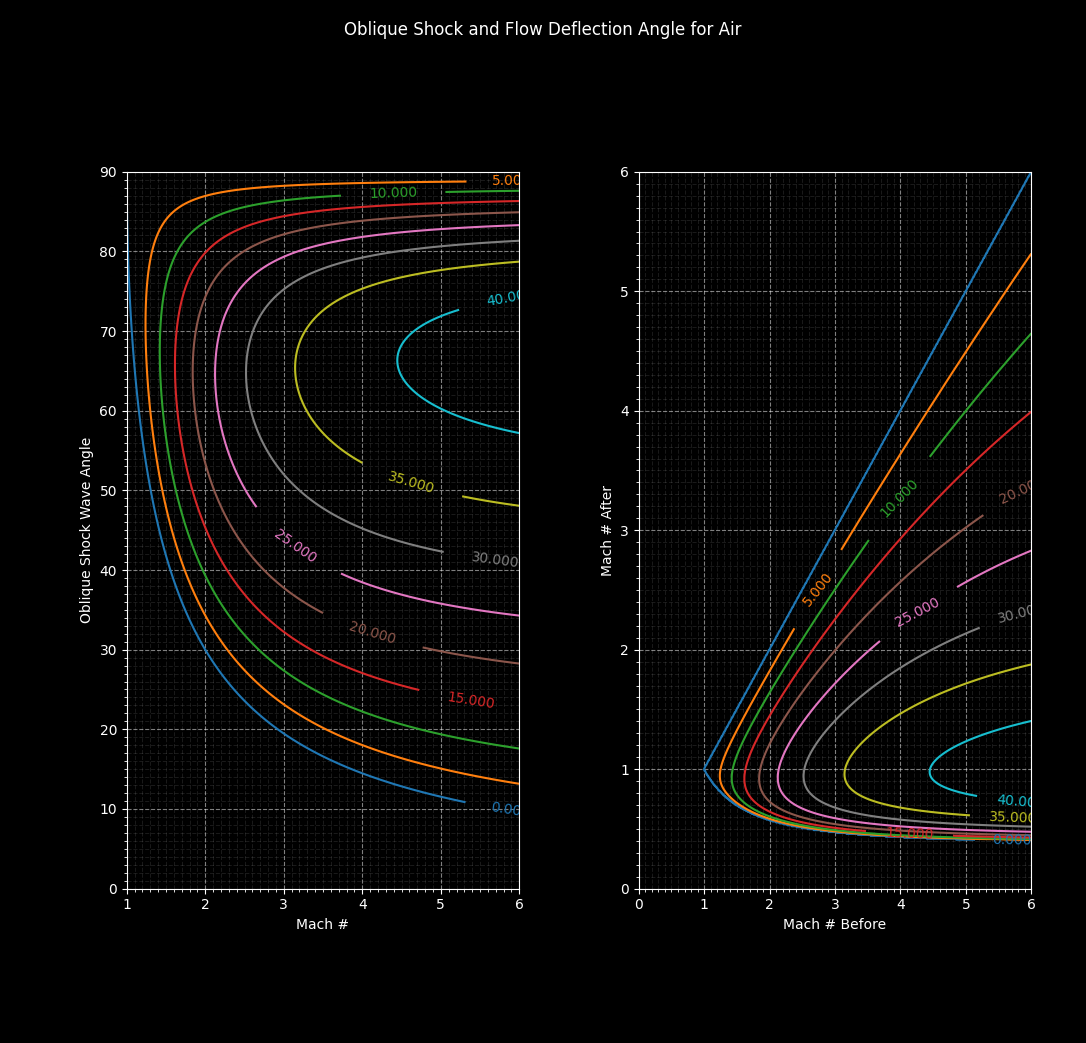
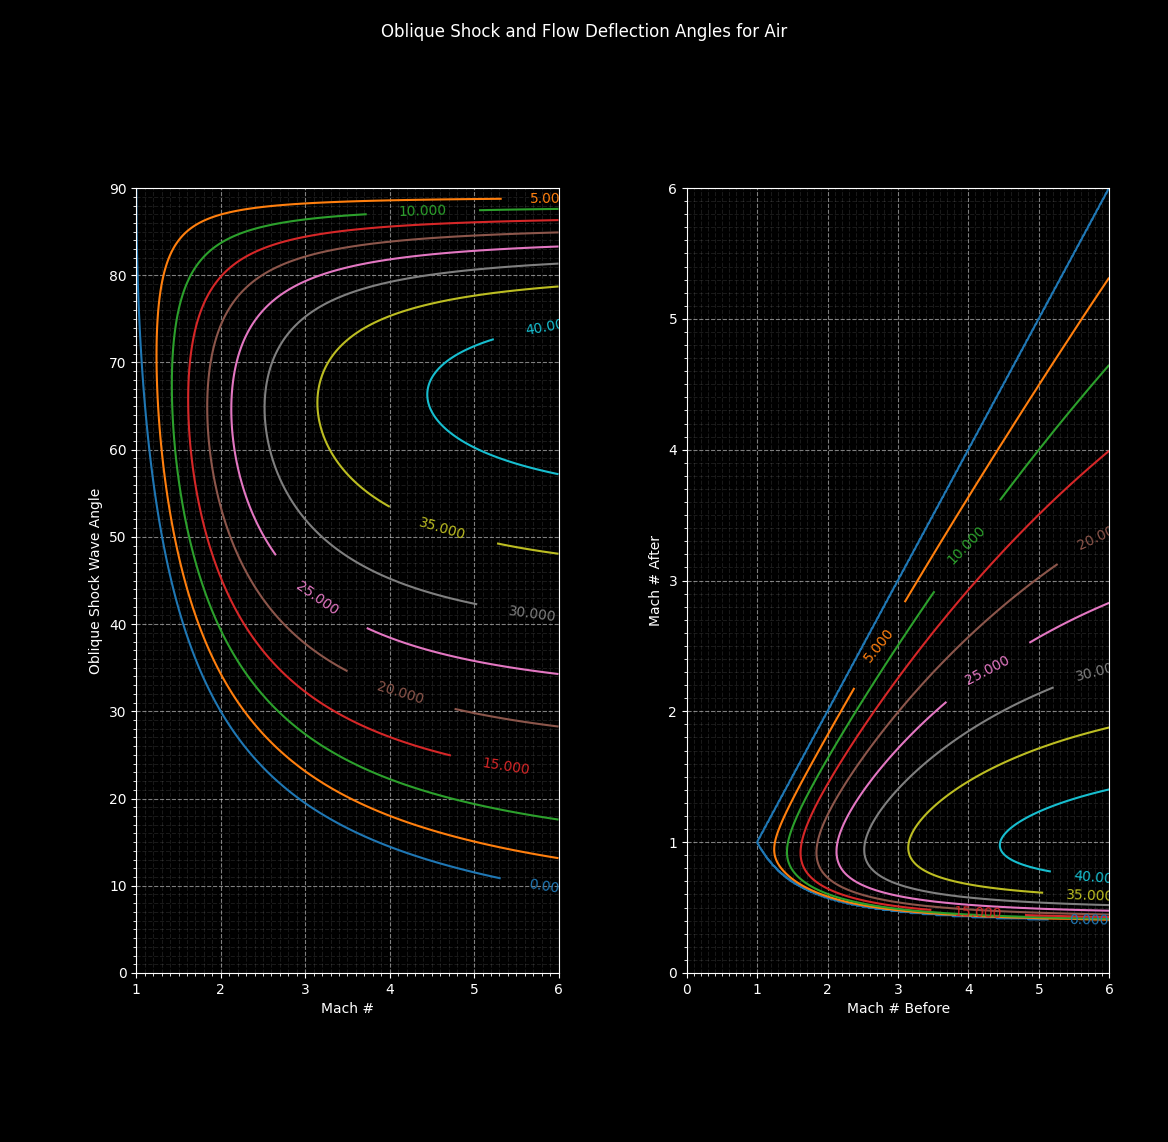
baby edits to readme. publishing version 0.2.4 now

diff --git a/gas_dynamics/shocks/shocks.py b/gas_dynamics/shocks/shocks.py
@@ -618,7 +618,7 @@ def shock_oblique_charts(Mach_max=6, gas=air, lite=True, dark=True):
     ax2.set(ylabel = 'Mach # After')
 
     #plot title stuff
-    string = 'Oblique Shock and Flow Deflection Angle for ' + gas.name
+    string = 'Oblique Shock and Flow Deflection Angles for ' + gas.name
     fig.suptitle(string)
     fig.tight_layout(pad=2.0)
     plt.show()

diff --git a/README.md b/README.md
@@ -11,7 +11,7 @@ py -m pip install gas_dynamics
 Included are functions to solve problems relating to compressible flow, from stagnation relations to determining the mach number from changes in
 local properties. Tables can be made for any gas and its respective ratio of specific heats, as well as plots and charts of relationships. 
 
-All functions contain an argument to specify the fluid so as to obtain the appropriate ratio of specific heats and gas constant. If the fluid is not specified, the default argument is for air with a ratio of specific heats of 1.4 and a gas constant of 286.9 J / Kg K. Alternatively, if you want to specify the ratio of specific heats and gas constant directly, a class for fluids exists to initialize a fluid and its properties, as well as keep track of units. 
+All functions contain an argument to specify the fluid so as to obtain the appropriate ratio of specific heats and gas constant. If the fluid is not specified, the default argument is for air with a ratio of specific heats of 1.4 and a gas constant of 286.9 J / kg K. Alternatively, if you want to specify the ratio of specific heats and gas constant directly, a class for fluids exists to initialize a fluid and its properties, as well as keep track of units. 
 
 ```
 >>> import gas_dynamics as gd
@@ -23,7 +23,7 @@ Mach number after a normal shock for air
 >>>
 
 Mach number after a normal shock for argon
->>> 
+>>> from gas_dynamics.fluids import argon
 >>> M2 = gd.shock_mach(M1=1.25, gas=argon)
 >>> M2
 0.8184295177443512
@@ -33,9 +33,9 @@ Mach number for a user-defined fluid
 >>> methane = gd.fluid(name='methane', gamma=1.33, R=96.4, units='ft-lbf/lbm-R') 
 >>> methane.name, methane.gamma, methane.R, methane.units
 ('methane', 1.33, 96.4, 'ft-lbf/lbm-R')
->>> M2 = gd.shock_mach(M=2, gas=methane)
+>>> M2 = gd.shock_mach(M=1.25, gas=methane)
 >>> M2
-0.5674658216825799
+0.810574008582977
 >>>
 ```
 
@@ -74,7 +74,7 @@ M: 5.100   |   P/Pt: 0.002    |    T/Tt: 0.161    |    A/A*: 27.070    |   rho/r
 ```
 
 
-Plotting Stagnation relations versus mach number for different gammas. Arguments are the mach number range, increment, and a list of gasses. Default valules are range = [.01, 5], step=.1, and gasses = [air,methane,argon]
+Plotting Stagnation relations versus mach number for different gammas. Arguments are the mach number range, increment, and a list of gasses. 
 
 ```
 plot_stagnation_ratios(dark=False)
